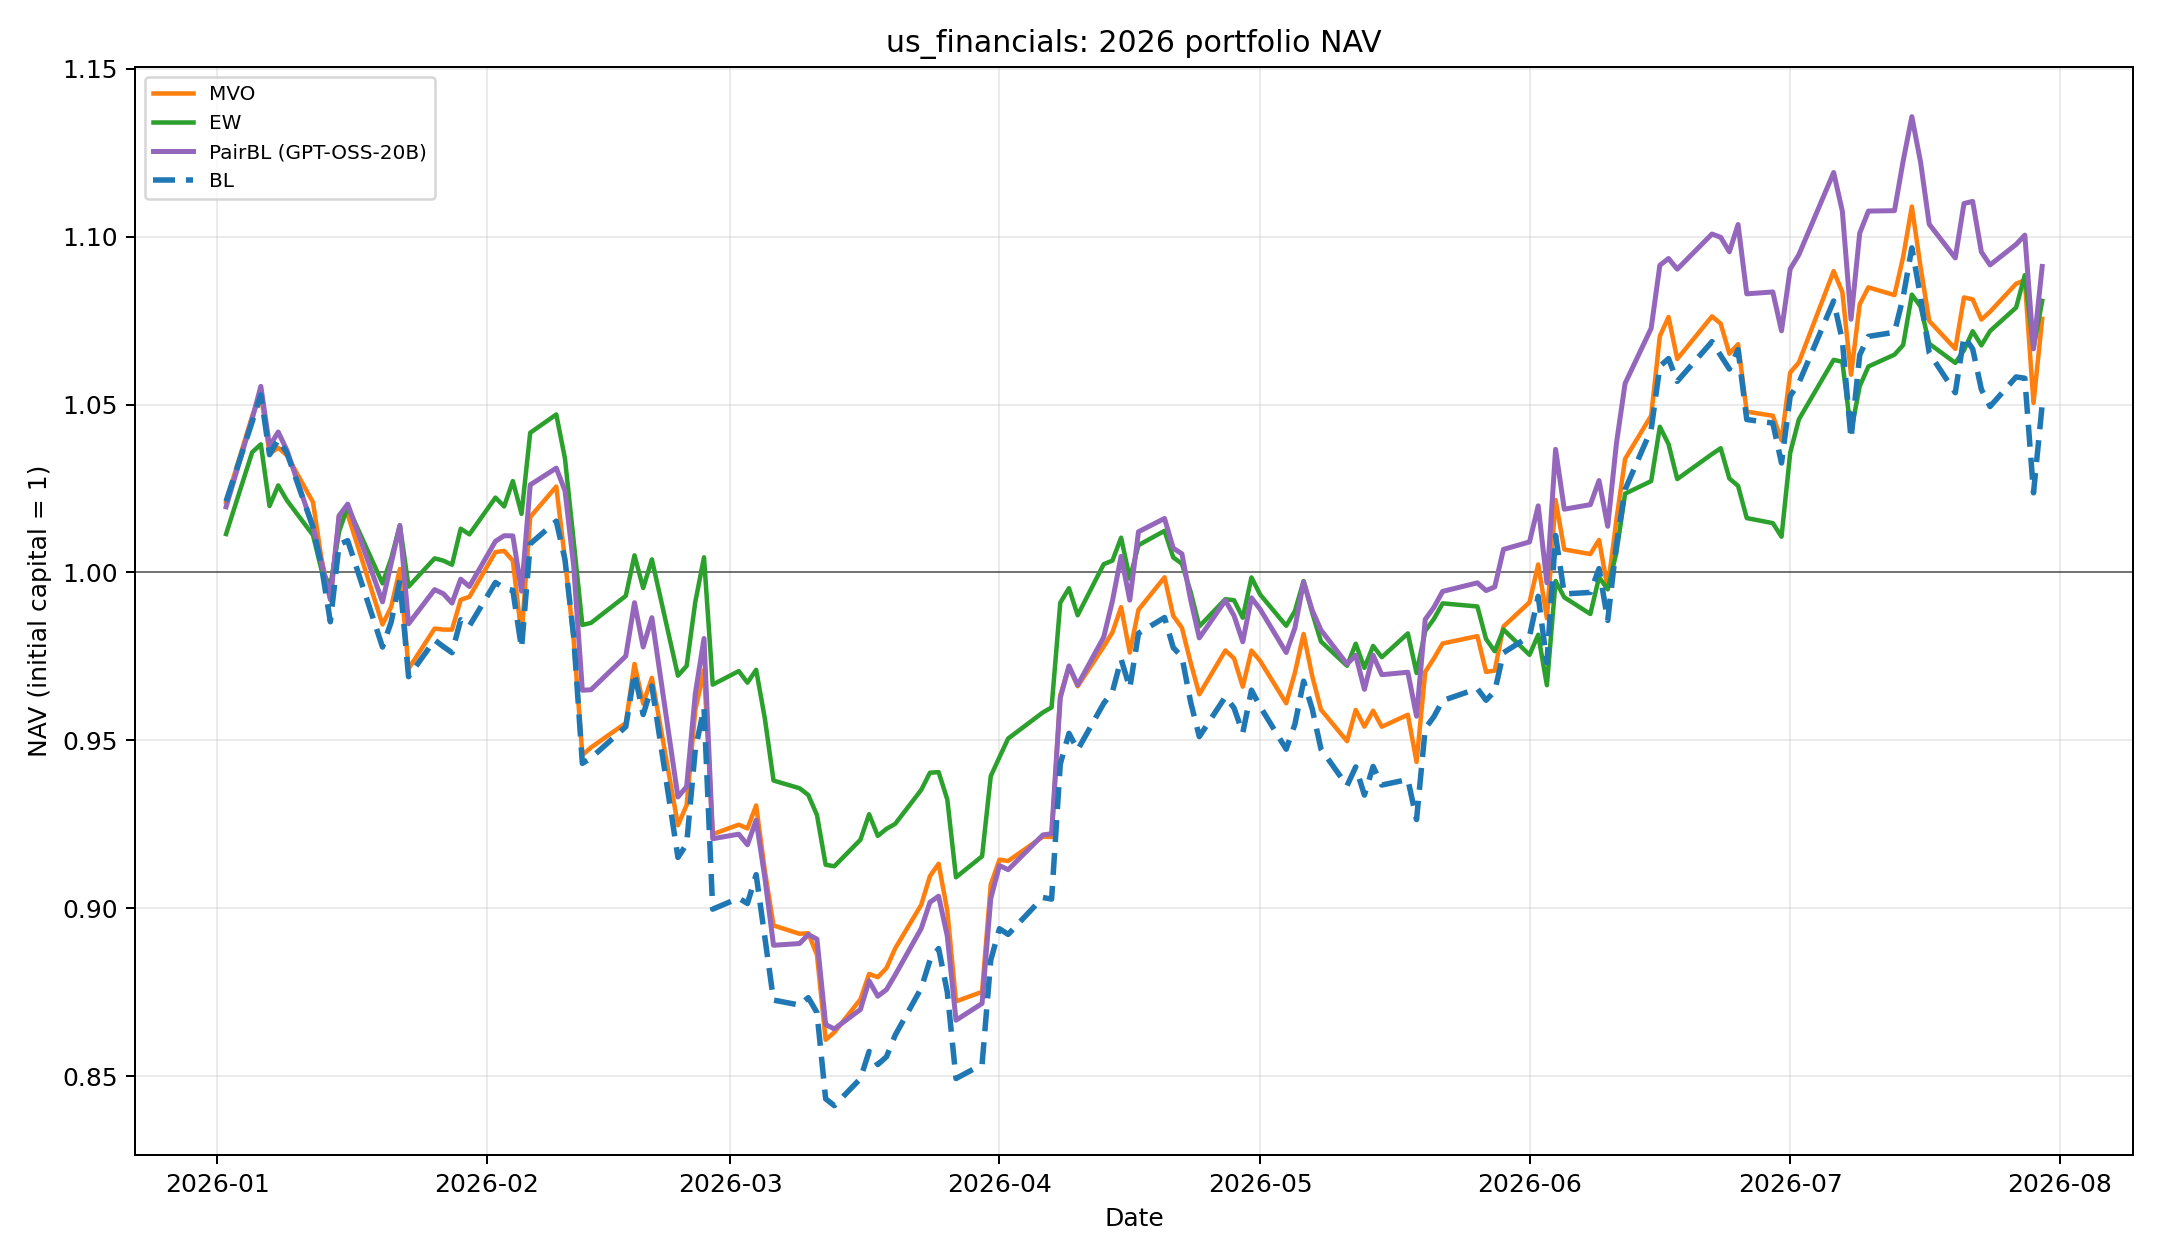
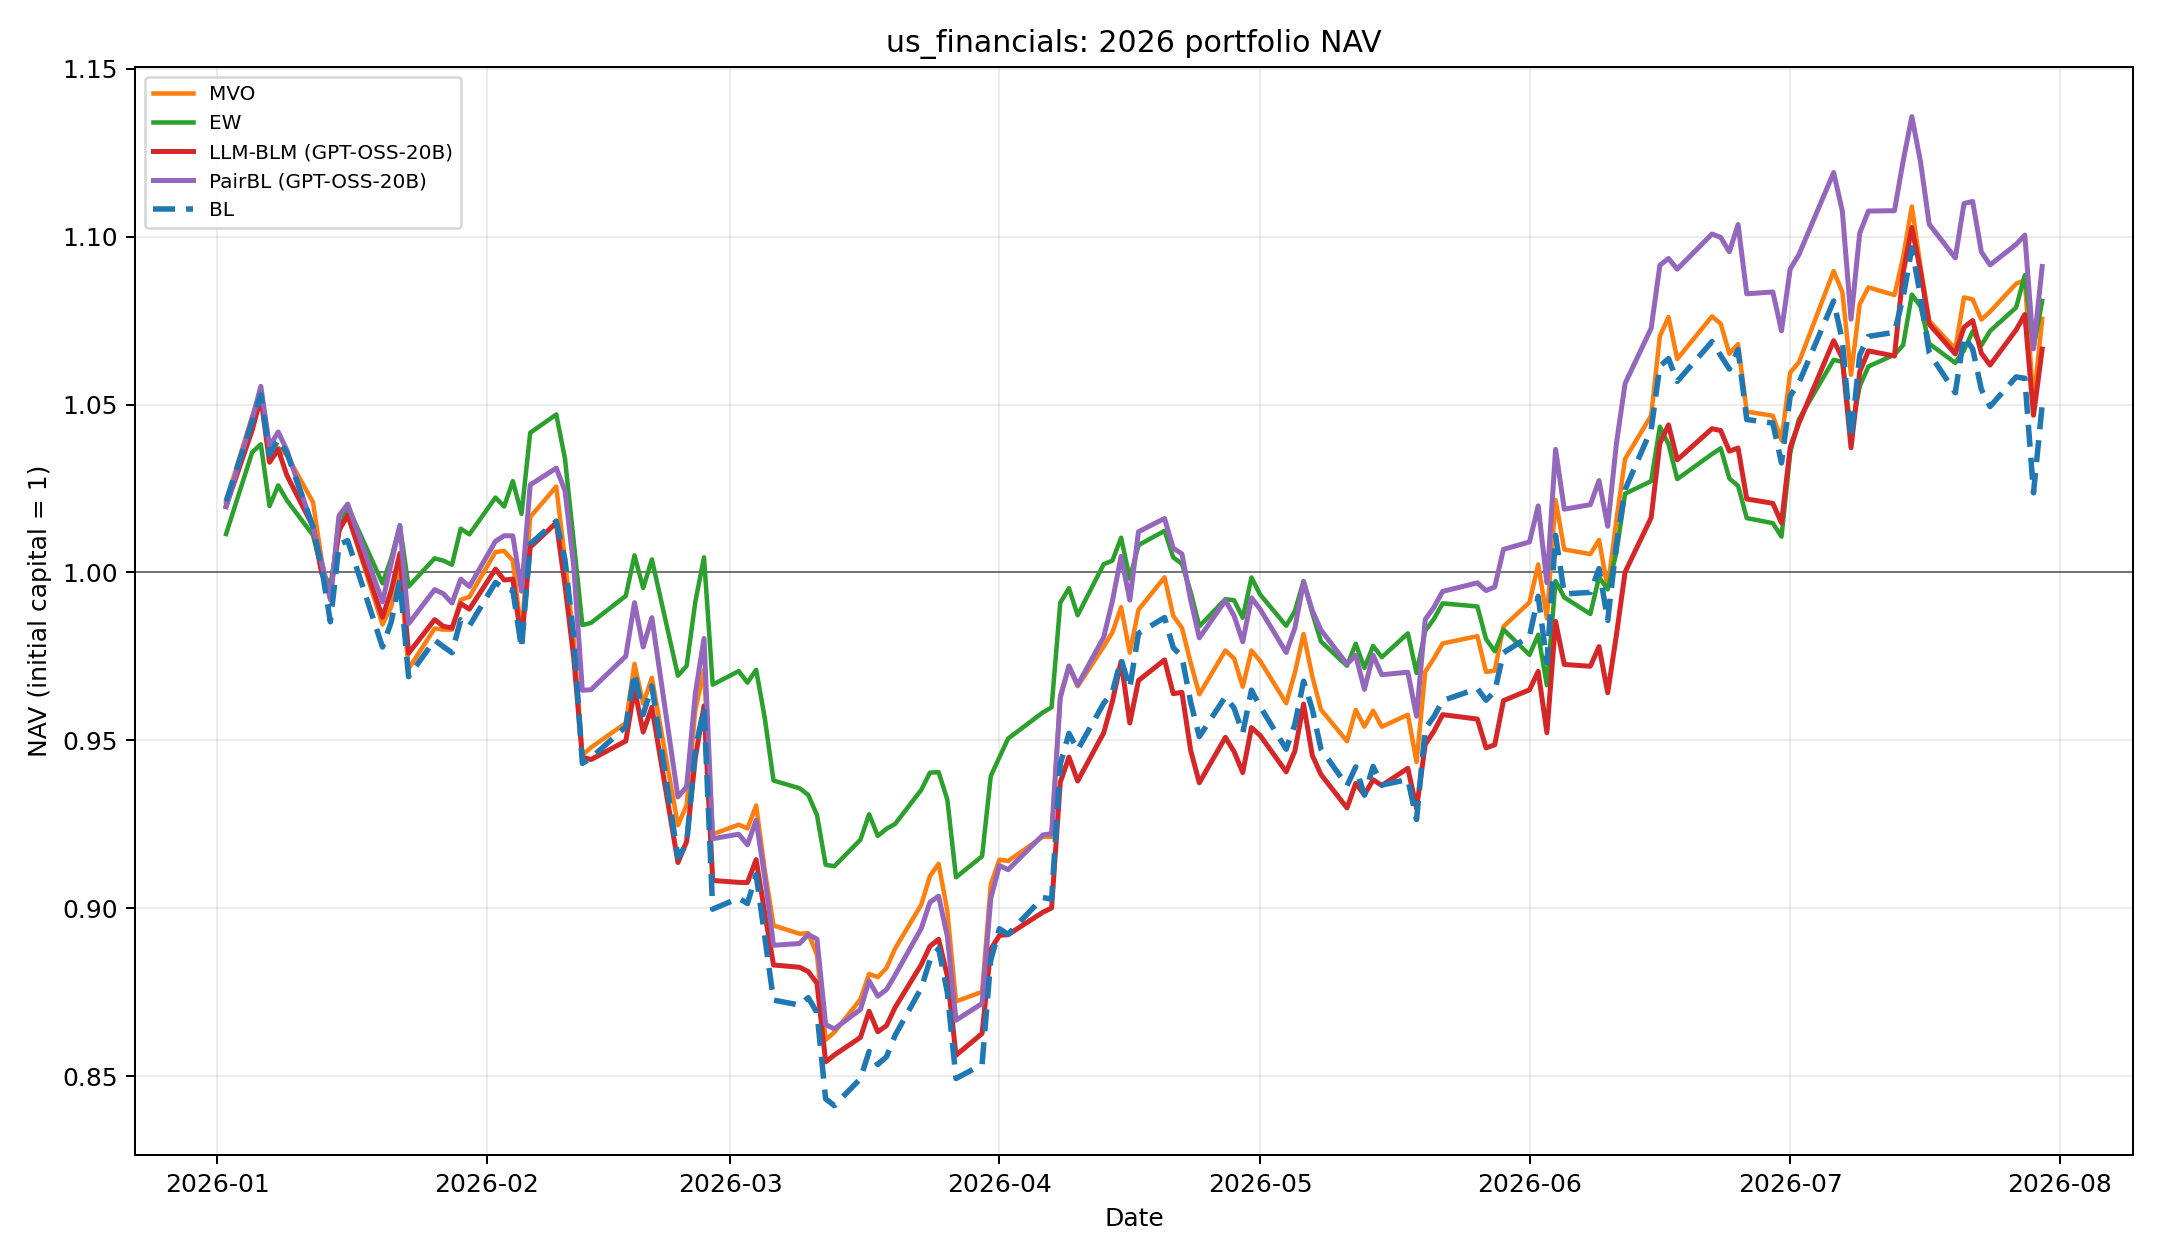
Restore GPT-OSS LLM-BLM comparison plots

diff --git a/run_nvidia_nim_experiment.py b/run_nvidia_nim_experiment.py
@@ -437,9 +437,6 @@ def evaluate_method(
 def plot_nav(daily: pd.DataFrame, title: str, output: Path) -> None:
     if daily.empty:
         return
-    daily = daily[
-        ~daily["Method"].astype(str).str.startswith("BLM_LLM__")
-    ].copy()
     fig, axis = plt.subplots(figsize=(12, 7))
     style_by_method: dict[str, dict[str, Any]] = {
         "BL": {
@@ -466,10 +463,7 @@ def plot_nav(daily: pd.DataFrame, title: str, output: Path) -> None:
             style = {"color": "tab:purple", "linewidth": 2.0, "zorder": 4}
         else:
             style = style_by_method.get(method, {})
-        display_label = (
-            "PairBL (GPT-OSS-20B)"
-            if method.startswith("RelViewBL__") else method
-        )
+        display_label = display_method_name(method)
         axis.plot(
             pd.to_datetime(ordered["Date"]), ordered["NAV"], label=display_label,
             linewidth=style.get("linewidth", 1.8),
@@ -484,7 +478,9 @@ def plot_nav(daily: pd.DataFrame, title: str, output: Path) -> None:
             if len(nav_by_method[left]) == len(nav_by_method[right]) and np.allclose(
                 nav_by_method[left], nav_by_method[right], rtol=1e-10, atol=1e-12
             ):
-                overlaps.append(f"{left} = {right}")
+                overlaps.append(
+                    f"{display_method_name(left)} = {display_method_name(right)}"
+                )
     axis.axhline(1.0, color="black", linewidth=0.8, alpha=0.5)
     axis.set_title(title)
     axis.set_xlabel("Date")
@@ -501,6 +497,14 @@ def plot_nav(daily: pd.DataFrame, title: str, output: Path) -> None:
     output.parent.mkdir(parents=True, exist_ok=True)
     fig.savefig(output, dpi=180)
     plt.close(fig)
+
+
+def display_method_name(method: str) -> str:
+    if method.startswith("RelViewBL__"):
+        return "PairBL (GPT-OSS-20B)"
+    if method.startswith("BLM_LLM__"):
+        return "LLM-BLM (GPT-OSS-20B)"
+    return method
 
 
 def save_method_artifacts(

diff --git a/README.md b/README.md
@@ -11,12 +11,13 @@ from 2025 and holds the fixed weights over 144 trading sessions from 2 January
 to 30 July 2026. All methods use the same long-only optimizer, 15% per-asset
 cap, and 10 bps entry cost. PairBL uses GPT-OSS-20B through NVIDIA NIM, three
 repeated calls per comparison, a 15-pair sparse comparison graph, and a 0.55
-abstention threshold. The comparison methods are no-view Black--Litterman
-(BL), mean--variance optimization (MVO), and equal weighting (EW).
+abstention threshold. The comparison methods are absolute-view LLM-BLM using
+the same GPT-OSS-20B model, no-view Black--Litterman (BL), mean--variance
+optimization (MVO), and equal weighting (EW).
 
 The three 15-asset universes are US technology equities (including NVDA), US
 financial equities, and cross-asset ETFs. The tables below contain every saved
-evaluation metric for the four reported methods.
+evaluation metric for the five reported methods.
 
 ### US Technology Equities
 
@@ -25,6 +26,7 @@ evaluation metric for the four reported methods.
 | BL | 144 | 49.55% | 102.25% | 47.39% | 1.724 | -25.75% | 2.559 | 3.970 | 1.496 |
 | MVO | 144 | 49.66% | 102.52% | 43.50% | 1.841 | -23.18% | 2.776 | 4.422 | 1.497 |
 | EW | 144 | 18.98% | 35.55% | 26.65% | 1.274 | -15.77% | 1.879 | 2.254 | 1.190 |
+| LLM-BLM (GPT-OSS-20B) | 144 | 49.55% | 102.25% | 47.39% | 1.724 | -25.75% | 2.559 | 3.970 | 1.496 |
 | **PairBL (GPT-OSS-20B)** | **144** | **58.48%** | **123.85%** | **46.62%** | **1.963** | **-25.68%** | **2.934** | **4.824** | **1.585** |
 
 | Method | Mean daily return | Best day | Worst day | Positive days | Annualized downside deviation | Daily VaR 95% | Daily CVaR 95% | Turnover | Cost (bps) |
@@ -32,6 +34,7 @@ evaluation metric for the four reported methods.
 | BL | 0.32% | 9.04% | -9.73% | 61.11% | 31.93% | -4.30% | -5.94% | 1.00 | 10 |
 | MVO | 0.32% | 8.58% | -8.99% | 60.42% | 28.84% | -3.58% | -5.27% | 1.00 | 10 |
 | EW | 0.13% | 4.01% | -6.48% | 54.17% | 18.07% | -2.38% | -3.32% | 1.00 | 10 |
+| LLM-BLM (GPT-OSS-20B) | 0.32% | 9.04% | -9.73% | 61.11% | 31.93% | -4.30% | -5.94% | 1.00 | 10 |
 | **PairBL (GPT-OSS-20B)** | **0.36%** | **8.75%** | **-9.54%** | **60.42%** | **31.19%** | **-4.35%** | **-5.92%** | **1.00** | **10** |
 
 ![US technology NAV](experiments/nvidia_nim_2025_2026/us_technology/plots/nav_2026.png)
@@ -43,6 +46,7 @@ evaluation metric for the four reported methods.
 | BL | 144 | 4.99% | 8.90% | 26.03% | 0.458 | -20.10% | 0.626 | 0.443 | 1.050 |
 | MVO | 144 | 7.55% | 13.58% | 25.03% | 0.634 | -18.26% | 0.889 | 0.744 | 1.075 |
 | EW | 144 | 8.08% | 14.57% | 18.77% | 0.818 | -13.16% | 1.165 | 1.107 | 1.081 |
+| LLM-BLM (GPT-OSS-20B) | 144 | 6.65% | 11.92% | 23.89% | 0.591 | -18.80% | 0.813 | 0.634 | 1.066 |
 | **PairBL (GPT-OSS-20B)** | **144** | **9.11%** | **16.48%** | **25.70%** | **0.722** | **-18.13%** | **0.998** | **0.909** | **1.091** |
 
 | Method | Mean daily return | Best day | Worst day | Positive days | Annualized downside deviation | Daily VaR 95% | Daily CVaR 95% | Turnover | Cost (bps) |
@@ -50,6 +54,7 @@ evaluation metric for the four reported methods.
 | BL | 0.05% | 4.46% | -6.24% | 53.47% | 19.03% | -2.86% | -3.81% | 1.00 | 10 |
 | MVO | 0.06% | 4.58% | -5.03% | 55.56% | 17.84% | -2.78% | -3.56% | 1.00 | 10 |
 | EW | 0.06% | 3.25% | -3.77% | 53.47% | 13.18% | -1.96% | -2.59% | 1.00 | 10 |
+| LLM-BLM (GPT-OSS-20B) | 0.06% | 4.16% | -5.41% | 54.17% | 17.36% | -2.64% | -3.42% | 1.00 | 10 |
 | **PairBL (GPT-OSS-20B)** | **0.07%** | **4.39%** | **-6.08%** | **57.64%** | **18.59%** | **-2.85%** | **-3.72%** | **1.00** | **10** |
 
 ![US financial NAV](experiments/nvidia_nim_2025_2026/us_financials/plots/nav_2026.png)
@@ -61,6 +66,7 @@ evaluation metric for the four reported methods.
 | BL | 144 | 20.91% | 39.41% | 19.72% | 1.785 | -9.00% | 2.405 | 4.378 | 1.209 |
 | MVO | 144 | 6.61% | 11.86% | 24.62% | 0.578 | -14.49% | 0.774 | 0.819 | 1.066 |
 | EW | 144 | 12.67% | 23.22% | 12.53% | 1.730 | -5.45% | 2.352 | 4.263 | 1.127 |
+| LLM-BLM (GPT-OSS-20B) | 144 | 17.20% | 32.02% | 22.48% | 1.349 | -12.03% | 1.785 | 2.660 | 1.172 |
 | **PairBL (GPT-OSS-20B)** | **144** | **11.19%** | **20.40%** | **20.62%** | **1.003** | **-11.84%** | **1.432** | **1.722** | **1.112** |
 
 | Method | Mean daily return | Best day | Worst day | Positive days | Annualized downside deviation | Daily VaR 95% | Daily CVaR 95% | Turnover | Cost (bps) |
@@ -68,6 +74,7 @@ evaluation metric for the four reported methods.
 | BL | 0.14% | 3.11% | -5.04% | 59.03% | 14.63% | -2.05% | -3.19% | 1.00 | 10 |
 | MVO | 0.06% | 3.90% | -6.54% | 54.86% | 18.40% | -2.95% | -3.78% | 1.00 | 10 |
 | EW | 0.09% | 2.03% | -3.24% | 61.11% | 9.22% | -1.45% | -1.97% | 1.00 | 10 |
+| LLM-BLM (GPT-OSS-20B) | 0.12% | 3.21% | -6.43% | 60.42% | 16.98% | -2.28% | -3.59% | 1.00 | 10 |
 | **PairBL (GPT-OSS-20B)** | **0.08%** | **3.61%** | **-4.01%** | **54.86%** | **14.45%** | **-2.53%** | **-2.93%** | **1.00** | **10** |
 
 ![Cross-asset ETF NAV](experiments/nvidia_nim_2025_2026/cross_asset_etfs/plots/nav_2026.png)
@@ -79,6 +86,7 @@ evaluation metric for the four reported methods.
 | BL | +25.46% | **1.688** | -11.06% |
 | MVO | +21.08% | 1.439 | -13.84% |
 | EW | +13.74% | 1.572 | **-8.85%** |
+| LLM-BLM (GPT-OSS-20B) | +24.93% | **1.693** | -11.20% |
 | **PairBL (GPT-OSS-20B)** | **+25.77%** | 1.657 | -13.17% |
 
 ![PairBL equal-dataset aggregate NAV](experiments/nvidia_nim_2025_2026/plots/aggregate_nav_2026.png)
